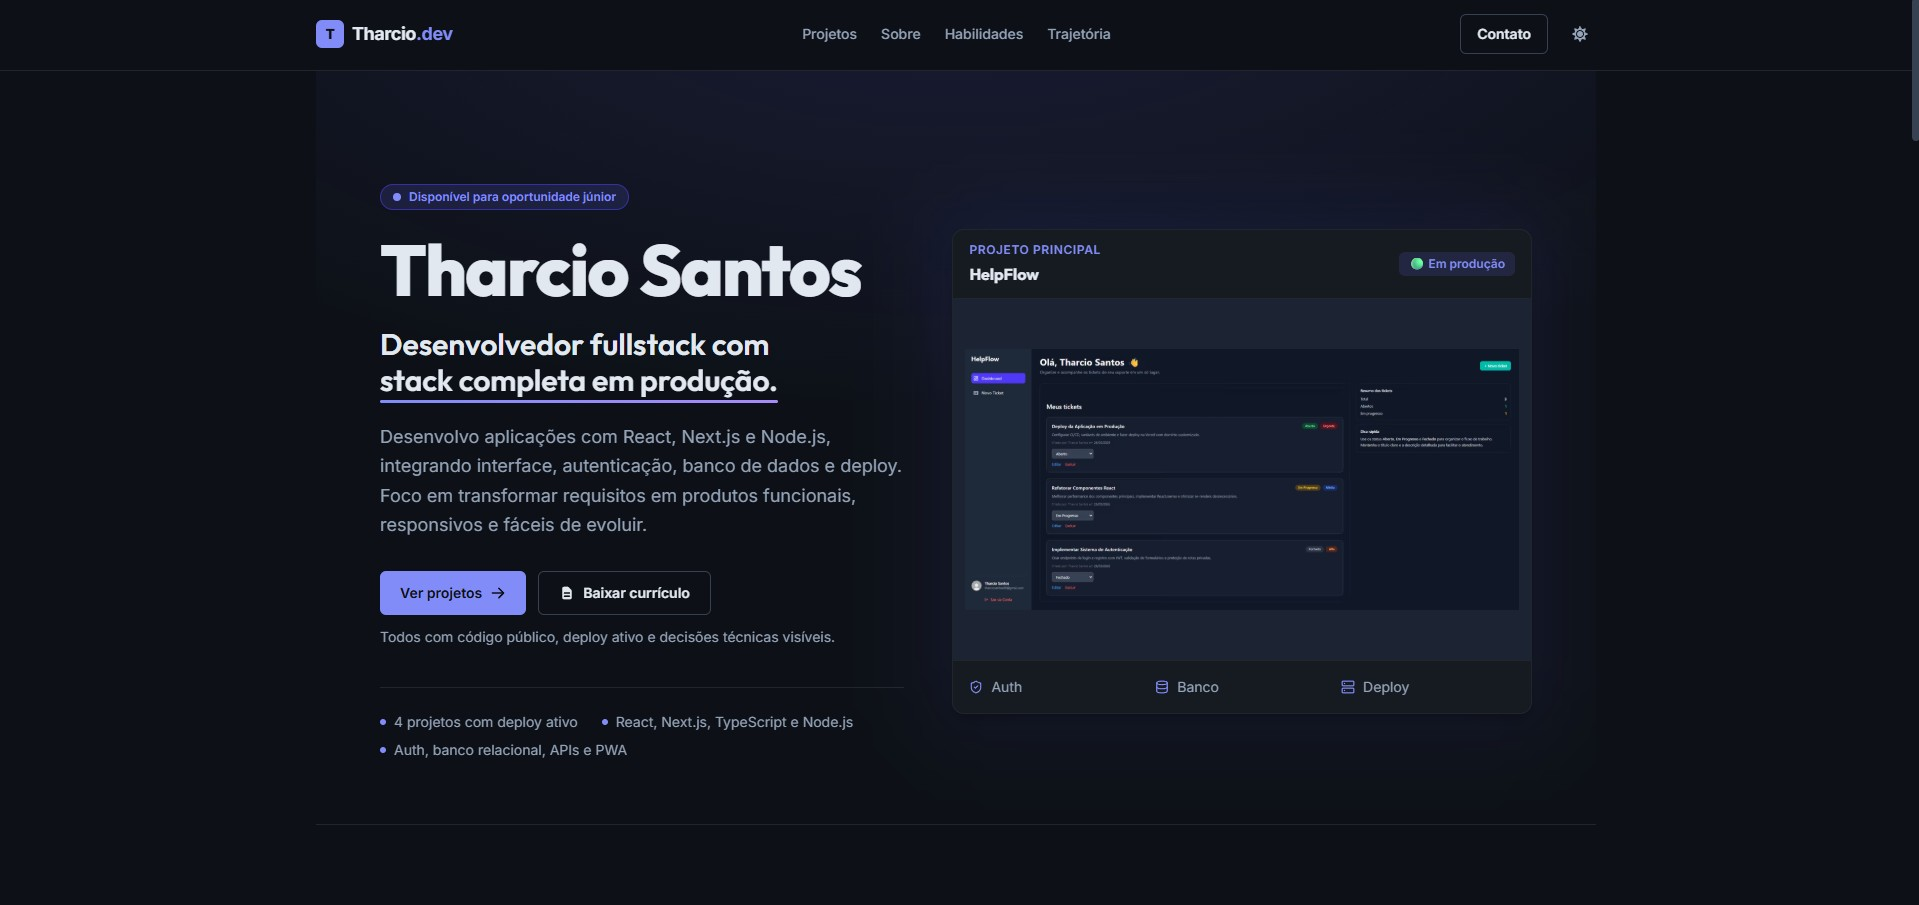
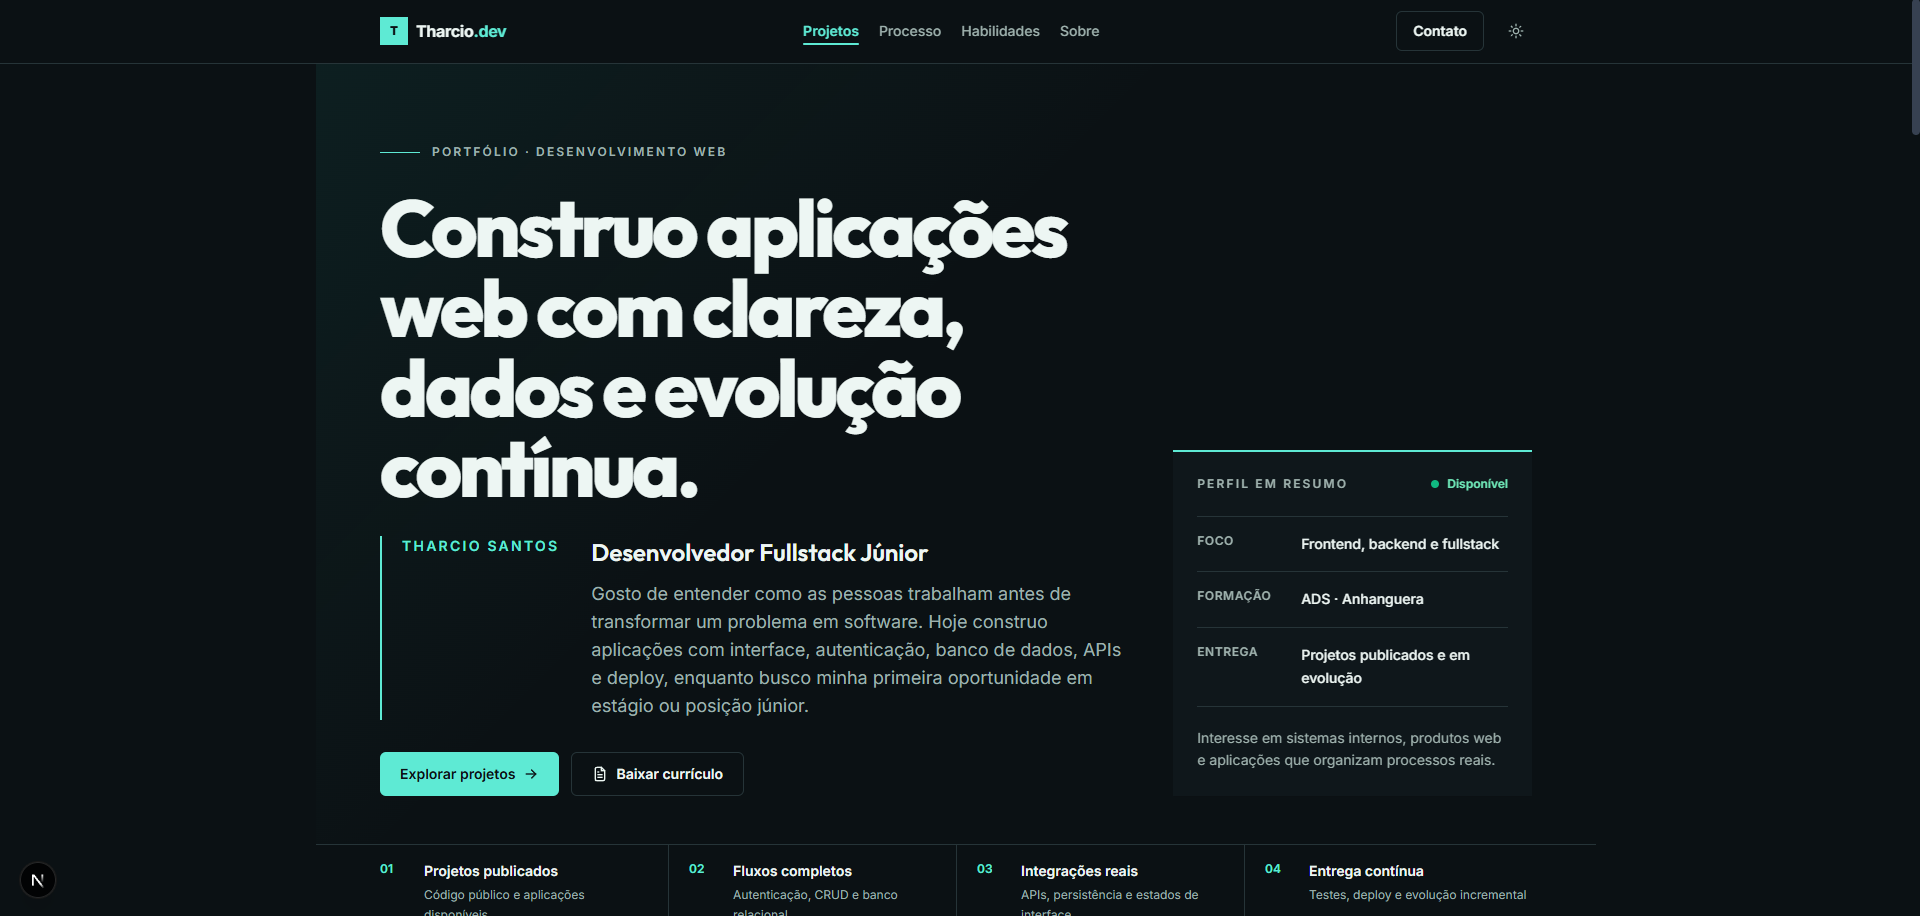
style: finalizar coerencia visual do redesign

diff --git a/src/app/components/sections/Hero.tsx b/src/app/components/sections/Hero.tsx
@@ -6,7 +6,7 @@ import { ArrowRightIcon, DocumentIcon } from '../ui/Icons';
 const profileDetails = [
   { label: 'Foco', value: 'Frontend, backend e fullstack' },
   { label: 'Formação', value: 'ADS · Anhanguera' },
-  { label: 'Entrega', value: 'Projetos públicos e em produção' },
+  { label: 'Entrega', value: 'Projetos publicados e em evolução' },
 ];
 
 const Hero = () => {
@@ -18,13 +18,13 @@ const Hero = () => {
     >
       <div
         aria-hidden="true"
-        className="pointer-events-none absolute inset-0 -z-10 bg-[linear-gradient(135deg,rgba(79,70,229,0.07),transparent_42%)] dark:bg-[linear-gradient(135deg,rgba(45,212,191,0.07),transparent_42%)]"
+        className="pointer-events-none absolute inset-0 -z-10 bg-[linear-gradient(135deg,rgba(15,118,110,0.08),transparent_42%)] dark:bg-[linear-gradient(135deg,rgba(45,212,191,0.07),transparent_42%)]"
       />
 
       <div className="mx-auto grid max-w-6xl gap-12 lg:grid-cols-[1.35fr_0.65fr] lg:items-end">
         <div>
           <div className="flex flex-wrap items-center gap-3 text-xs font-semibold uppercase tracking-[0.18em] text-secondary-text dark:text-dark-text">
-            <span className="h-px w-10 bg-accent dark:bg-teal-300" aria-hidden="true" />
+            <span className="h-px w-10 bg-accent dark:bg-accent-light" aria-hidden="true" />
             Portfólio · Desenvolvimento web
           </div>
 
@@ -32,8 +32,8 @@ const Hero = () => {
             Construo aplicações web com clareza, dados e evolução contínua.
           </h1>
 
-          <div className="mt-7 grid gap-5 border-l-2 border-accent pl-5 dark:border-teal-300 sm:grid-cols-[auto_1fr] sm:items-start sm:gap-8">
-            <p className="text-sm font-semibold uppercase tracking-[0.16em] text-accent dark:text-teal-300">
+          <div className="mt-7 grid gap-5 border-l-2 border-accent pl-5 dark:border-accent-light sm:grid-cols-[auto_1fr] sm:items-start sm:gap-8">
+            <p className="text-sm font-semibold uppercase tracking-[0.16em] text-accent dark:text-accent-light">
               Tharcio Santos
             </p>
             <div>
@@ -67,7 +67,7 @@ const Hero = () => {
 
         <aside
           aria-label="Resumo profissional"
-          className="border-t-2 border-primary-text bg-white/65 p-6 shadow-sm backdrop-blur-sm dark:border-teal-300 dark:bg-dark-card/70"
+          className="border-t-2 border-accent bg-white/65 p-6 shadow-sm backdrop-blur-sm dark:border-accent-light dark:bg-dark-card/70"
         >
           <div className="flex items-center justify-between gap-4">
             <p className="text-xs font-semibold uppercase tracking-[0.18em] text-secondary-text dark:text-dark-text">

diff --git a/src/app/components/ui/ProjectCard.tsx b/src/app/components/ui/ProjectCard.tsx
@@ -14,7 +14,7 @@ const ProjectCard = ({
   technicalHighlight,
 }: Project) => {
   return (
-    <article className="group grid min-h-full grid-rows-[auto_1fr] overflow-hidden border border-border-light bg-white transition-[border-color,box-shadow] duration-200 hover:border-accent-border hover:shadow-md dark:border-border-dark dark:bg-dark-card dark:hover:border-teal-800">
+    <article className="group grid min-h-full grid-rows-[auto_1fr] overflow-hidden border border-border-light bg-white transition-[border-color,box-shadow] duration-200 hover:border-accent-border hover:shadow-md dark:border-border-dark dark:bg-dark-card dark:hover:border-accent-border-dark">
       {imageUrl && (
         <div className="relative aspect-[2/1] overflow-hidden border-b border-border-light bg-light-surface dark:border-border-dark dark:bg-dark-surface md:aspect-[16/9]">
           <Image
@@ -30,7 +30,7 @@ const ProjectCard = ({
 
       <div className="flex flex-col p-4 md:p-5">
         {outcome && (
-          <p className="text-[11px] font-semibold uppercase tracking-[0.16em] text-accent dark:text-teal-300">
+          <p className="text-[11px] font-semibold uppercase tracking-[0.16em] text-accent dark:text-accent-light">
             {outcome}
           </p>
         )}
@@ -57,7 +57,7 @@ const ProjectCard = ({
             href={githubUrl}
             target="_blank"
             rel="noopener noreferrer"
-            className="inline-flex items-center gap-2 text-sm font-semibold text-primary-text hover:text-accent dark:text-light-text dark:hover:text-teal-300"
+            className="inline-flex items-center gap-2 text-sm font-semibold text-primary-text hover:text-accent dark:text-light-text dark:hover:text-accent-light"
           >
             <GithubIcon className="h-4 w-4" />
             Código
@@ -67,7 +67,7 @@ const ProjectCard = ({
               href={demoUrl}
               target="_blank"
               rel="noopener noreferrer"
-              className="inline-flex items-center gap-2 text-sm font-semibold text-primary-text hover:text-accent dark:text-light-text dark:hover:text-teal-300"
+              className="inline-flex items-center gap-2 text-sm font-semibold text-primary-text hover:text-accent dark:text-light-text dark:hover:text-accent-light"
             >
               <ExternalLinkIcon className="h-4 w-4" />
               Demo

diff --git a/src/app/components/sections/About.tsx b/src/app/components/sections/About.tsx
@@ -11,7 +11,7 @@ const About = () => {
       <div className="mx-auto max-w-6xl">
         <div className="grid gap-10 lg:grid-cols-[0.7fr_1.3fr] lg:gap-16">
           <div>
-            <div className="flex items-center gap-3 text-xs font-semibold uppercase tracking-[0.2em] text-accent dark:text-teal-300">
+            <div className="flex items-center gap-3 text-xs font-semibold uppercase tracking-[0.2em] text-accent dark:text-accent-light">
               <span className="h-px w-10 bg-current" aria-hidden="true" />
               Sobre mim
             </div>
@@ -62,7 +62,7 @@ const About = () => {
 
             <div className="mt-8 grid border-y border-border-light dark:border-border-dark md:grid-cols-[1.25fr_0.75fr] md:divide-x md:divide-border-light dark:md:divide-border-dark">
               <article className="py-6 md:pr-7">
-                <p className="text-xs font-semibold uppercase tracking-[0.18em] text-accent dark:text-teal-300">
+                <p className="text-xs font-semibold uppercase tracking-[0.18em] text-accent dark:text-accent-light">
                   Formação
                 </p>
                 <h3 className="mt-3 text-xl font-bold text-primary-text dark:text-light-text">
@@ -97,7 +97,7 @@ const About = () => {
               </article>
 
               <article className="border-t border-border-light py-6 dark:border-border-dark md:border-t-0 md:pl-7">
-                <p className="text-xs font-semibold uppercase tracking-[0.18em] text-accent dark:text-teal-300">
+                <p className="text-xs font-semibold uppercase tracking-[0.18em] text-accent dark:text-accent-light">
                   Certificação
                 </p>
                 <h3 className="mt-3 text-xl font-bold text-primary-text dark:text-light-text">
@@ -110,7 +110,7 @@ const About = () => {
                   href="https://app.rocketseat.com.br/certificates/861a62ff-782a-4bec-9f04-df3def1002cb"
                   target="_blank"
                   rel="noopener noreferrer"
-                  className="mt-4 inline-flex text-sm font-semibold text-accent hover:underline dark:text-teal-300"
+                  className="mt-4 inline-flex text-sm font-semibold text-accent hover:underline dark:text-accent-light"
                 >
                   Ver credencial →
                 </a>

diff --git a/src/app/components/sections/Projects.tsx b/src/app/components/sections/Projects.tsx
@@ -20,7 +20,7 @@ const Projects = () => {
       <div className="mx-auto max-w-6xl">
         <div className="grid gap-6 border-b border-border-light pb-8 dark:border-border-dark md:grid-cols-[0.75fr_1.25fr] md:items-end">
           <div>
-            <p className="text-xs font-semibold uppercase tracking-[0.2em] text-accent dark:text-teal-300">
+            <p className="text-xs font-semibold uppercase tracking-[0.2em] text-accent dark:text-accent-light">
               Trabalho selecionado
             </p>
             <h2 className="mt-4 text-4xl font-bold tracking-[-0.035em] text-primary-text dark:text-light-text md:text-5xl">
@@ -59,7 +59,7 @@ const Projects = () => {
             </div>
 
             <div>
-              <p className="text-xs font-semibold uppercase tracking-[0.2em] text-accent dark:text-teal-300">
+              <p className="text-xs font-semibold uppercase tracking-[0.2em] text-accent dark:text-accent-light">
                 Case principal · 01
               </p>
               <h3 className="mt-4 text-4xl font-bold tracking-[-0.03em] text-primary-text dark:text-light-text">
@@ -76,7 +76,7 @@ const Projects = () => {
                       key={point.label}
                       className="grid gap-2 py-4 sm:grid-cols-[5.5rem_1fr] sm:gap-5"
                     >
-                      <dt className="text-xs font-semibold uppercase tracking-wider text-accent dark:text-teal-300">
+                      <dt className="text-xs font-semibold uppercase tracking-wider text-accent dark:text-accent-light">
                         {point.label}
                       </dt>
                       <dd className="text-sm leading-relaxed text-secondary-text dark:text-dark-text">
@@ -200,7 +200,7 @@ const Projects = () => {
         <div className="pt-10">
           <div className="flex flex-col justify-between gap-4 sm:flex-row sm:items-end">
             <div>
-              <p className="text-xs font-semibold uppercase tracking-[0.2em] text-accent dark:text-teal-300">
+              <p className="text-xs font-semibold uppercase tracking-[0.2em] text-accent dark:text-accent-light">
                 Outros projetos
               </p>
               <h3 className="mt-3 text-3xl font-bold tracking-tight text-primary-text dark:text-light-text">

diff --git a/src/app/components/sections/Experience.tsx b/src/app/components/sections/Experience.tsx
@@ -9,7 +9,7 @@ const Experience = () => {
       <div className="mx-auto max-w-6xl">
         <div className="grid gap-8 border-b border-border-light pb-8 dark:border-border-dark md:grid-cols-[0.8fr_1.2fr] md:items-end">
           <div>
-            <div className="flex items-center gap-3 text-xs font-semibold uppercase tracking-[0.2em] text-accent dark:text-teal-300">
+            <div className="flex items-center gap-3 text-xs font-semibold uppercase tracking-[0.2em] text-accent dark:text-accent-light">
               <span className="h-px w-10 bg-current" aria-hidden="true" />
               Trajetória
             </div>
@@ -35,7 +35,7 @@ const Experience = () => {
                   key={skill}
                   className="grid min-h-16 grid-cols-[1.75rem_1fr] items-center gap-2 border-b border-border-light py-3 text-sm text-secondary-text dark:border-border-dark dark:text-dark-text odd:pr-3 even:border-l even:pl-3"
                 >
-                  <span className="font-mono text-[10px] font-semibold text-accent dark:text-teal-300">
+                  <span className="font-mono text-[10px] font-semibold text-accent dark:text-accent-light">
                     {String(index + 1).padStart(2, '0')}
                   </span>
                   {skill}
@@ -54,7 +54,7 @@ const Experience = () => {
                   key={`${item.role}-${item.org}`}
                   className="grid gap-3 border-b border-border-light py-5 dark:border-border-dark sm:grid-cols-[2.5rem_1fr_auto] sm:gap-5"
                 >
-                  <span className="font-mono text-xs font-semibold text-accent dark:text-teal-300">
+                  <span className="font-mono text-xs font-semibold text-accent dark:text-accent-light">
                     {String(index + 1).padStart(2, '0')}
                   </span>
                   <div>

diff --git a/src/app/components/ui/Button.tsx b/src/app/components/ui/Button.tsx
@@ -3,14 +3,14 @@ import { cva, type VariantProps } from 'class-variance-authority';
 import { cn } from '@/lib/utils';
 
 const buttonVariants = cva(
-  'inline-flex items-center justify-center gap-2 whitespace-nowrap rounded-md text-sm font-semibold transition-all duration-200 active:scale-[0.98] focus-visible:outline-none focus-visible:ring-2 focus-visible:ring-accent focus-visible:ring-offset-2 disabled:pointer-events-none disabled:opacity-50 dark:focus-visible:ring-offset-dark-bg',
+  'inline-flex items-center justify-center gap-2 whitespace-nowrap rounded-md text-sm font-semibold transition-all duration-200 active:scale-[0.98] focus-visible:outline-none focus-visible:ring-2 focus-visible:ring-accent focus-visible:ring-offset-2 disabled:pointer-events-none disabled:opacity-50 dark:focus-visible:ring-accent-light dark:focus-visible:ring-offset-dark-bg',
   {
     variants: {
       variant: {
         primary:
           'bg-accent text-white hover:bg-accent-hover dark:bg-accent-light dark:text-dark-bg dark:hover:bg-accent-light-hover shadow-sm shadow-accent/20 dark:shadow-none',
         outline:
-          'border border-gray-300 bg-transparent text-primary-text hover:border-accent hover:text-accent dark:border-gray-700 dark:text-light-text dark:hover:border-accent-light dark:hover:text-accent-light shadow-sm',
+          'border border-border-light bg-transparent text-primary-text hover:border-accent hover:bg-accent-subtle hover:text-accent dark:border-border-dark dark:text-light-text dark:hover:border-accent-light dark:hover:bg-accent-subtle-dark dark:hover:text-accent-light shadow-sm',
         ghost:
           'text-secondary-text hover:bg-accent-subtle dark:text-dark-text dark:hover:bg-accent-subtle-dark dark:hover:text-light-text',
       },

diff --git a/tailwind.config.js b/tailwind.config.js
@@ -13,33 +13,33 @@ module.exports = {
       },
       colors: {
         /* Backgrounds */
-        'dark-bg': '#0d1117',
-        'dark-card': '#161b22',
-        'dark-surface': '#1c2333',
-        'light-bg': '#f0f4ff',
+        'dark-bg': '#0b1114',
+        'dark-card': '#111a1e',
+        'dark-surface': '#172329',
+        'light-bg': '#f5f7f6',
         'light-card': '#ffffff',
-        'light-surface': '#eef2ff',
+        'light-surface': '#edf3f1',
 
         /* Texto */
-        'light-text': '#e2e8f0',
-        'dark-text': '#a8b4c7',
-        'primary-text': '#0f172a',
-        'secondary-text': '#475569',
+        'light-text': '#edf6f3',
+        'dark-text': '#9fb2ae',
+        'primary-text': '#12201f',
+        'secondary-text': '#52615f',
 
         /* Bordas */
-        'border-light': '#e2e8f0',
-        'border-dark': '#21262d',
+        'border-light': '#dce5e2',
+        'border-dark': '#263438',
 
-        /* Accent — Indigo */
+        /* Accent — teal */
         accent: {
-          DEFAULT: '#4f46e5',
-          hover: '#4338ca',
-          light: '#818cf8',
-          'light-hover': '#a5b4fc',
-          subtle: '#eef2ff',
-          'subtle-dark': 'rgba(99,102,241,0.15)',
-          border: '#c7d2fe',
-          'border-dark': '#3730a3',
+          DEFAULT: '#0f766e',
+          hover: '#115e59',
+          light: '#5eead4',
+          'light-hover': '#99f6e4',
+          subtle: '#e6f4f1',
+          'subtle-dark': 'rgba(45,212,191,0.12)',
+          border: '#99d5cb',
+          'border-dark': '#1f766e',
         },
       },
       keyframes: {

diff --git a/src/app/components/sections/Capabilities.tsx b/src/app/components/sections/Capabilities.tsx
@@ -11,7 +11,7 @@ const Capabilities = () => {
       <div className="mx-auto max-w-6xl">
         <div className="grid gap-5 border-b border-border-light pb-6 dark:border-border-dark md:grid-cols-[0.75fr_1.25fr] md:items-end md:pb-8">
           <div>
-            <div className="flex items-center gap-3 text-xs font-semibold uppercase tracking-[0.2em] text-accent dark:text-teal-300">
+            <div className="flex items-center gap-3 text-xs font-semibold uppercase tracking-[0.2em] text-accent dark:text-accent-light">
               <span className="h-px w-10 bg-current" aria-hidden="true" />
               Competências
             </div>
@@ -32,7 +32,7 @@ const Capabilities = () => {
               className="py-5 md:py-6 lg:px-7 lg:py-7 lg:first:pl-0 lg:last:pr-0"
             >
               <div className="flex items-center justify-between gap-4">
-                <p className="font-mono text-xs font-semibold text-accent dark:text-teal-300">
+                <p className="font-mono text-xs font-semibold text-accent dark:text-accent-light">
                   {String(index + 1).padStart(2, '0')}
                 </p>
                 <p className="text-[11px] font-semibold uppercase tracking-[0.16em] text-secondary-text dark:text-dark-text">

diff --git a/src/app/components/sections/Process.tsx b/src/app/components/sections/Process.tsx
@@ -19,7 +19,7 @@ const Process = () => {
     >
       <div className="mx-auto grid max-w-6xl gap-10 lg:grid-cols-[0.72fr_1.28fr] lg:gap-16">
         <div>
-          <div className="flex items-center gap-3 text-xs font-semibold uppercase tracking-[0.2em] text-accent dark:text-teal-300">
+          <div className="flex items-center gap-3 text-xs font-semibold uppercase tracking-[0.2em] text-accent dark:text-accent-light">
             <span className="h-px w-10 bg-current" aria-hidden="true" />
             Processo
           </div>
@@ -39,7 +39,7 @@ const Process = () => {
               key={step}
               className="grid min-h-20 grid-cols-[2.5rem_1fr] items-center gap-3 border-b border-border-light py-5 dark:border-border-dark sm:px-5 sm:odd:border-r"
             >
-              <span className="font-mono text-xs font-semibold text-accent dark:text-teal-300">
+              <span className="font-mono text-xs font-semibold text-accent dark:text-accent-light">
                 {String(index + 1).padStart(2, '0')}
               </span>
               <p className="text-sm font-semibold text-primary-text dark:text-light-text">{step}</p>

diff --git a/src/app/components/MobileNav.tsx b/src/app/components/MobileNav.tsx
@@ -56,7 +56,7 @@ export function MobileNav({ links, activeSection = '' }: MobileNavProps) {
         className={cn(
           'relative z-[60] inline-flex h-10 w-10 items-center justify-center rounded-lg border transition-colors',
           isOpen
-            ? 'border-accent bg-primary-text text-white shadow-lg shadow-slate-900/20 ring-2 ring-white/80 hover:bg-accent dark:border-accent-light dark:bg-light-text dark:text-dark-bg dark:ring-accent-light/30 dark:hover:bg-accent-light'
+            ? 'border-accent bg-accent text-white shadow-lg shadow-accent/20 ring-2 ring-accent-border hover:bg-accent-hover dark:border-accent-light dark:bg-accent-light dark:text-dark-bg dark:ring-accent-light/30 dark:hover:bg-accent-light-hover'
             : 'border-transparent text-primary-text hover:bg-light-surface hover:text-accent dark:text-light-text dark:hover:bg-dark-surface dark:hover:text-accent-light'
         )}
       >

diff --git a/src/app/components/sections/Contact.tsx b/src/app/components/sections/Contact.tsx
@@ -23,7 +23,7 @@ const Contact = () => {
       <div className="mx-auto max-w-6xl">
         <div className="grid gap-10 lg:grid-cols-[0.9fr_1.1fr] lg:gap-16">
           <div>
-            <div className="flex items-center gap-3 text-xs font-semibold uppercase tracking-[0.2em] text-accent dark:text-teal-300">
+            <div className="flex items-center gap-3 text-xs font-semibold uppercase tracking-[0.2em] text-accent dark:text-accent-light">
               <span className="h-px w-10 bg-current" aria-hidden="true" />
               Contato
             </div>

diff --git a/src/app/globals.css b/src/app/globals.css
@@ -12,7 +12,7 @@
   }
 
   body {
-    @apply bg-light-bg text-primary-text;
+    @apply bg-light-bg text-primary-text dark:bg-dark-bg dark:text-light-text;
     -webkit-font-smoothing: antialiased;
     -moz-osx-font-smoothing: grayscale;
   }
@@ -49,6 +49,11 @@
   h5,
   h6 {
     @apply font-heading font-bold;
+  }
+
+  a,
+  button {
+    @apply focus-visible:outline-none focus-visible:ring-2 focus-visible:ring-accent focus-visible:ring-offset-2 dark:focus-visible:ring-accent-light dark:focus-visible:ring-offset-dark-bg;
   }
 
   ::-webkit-scrollbar {
